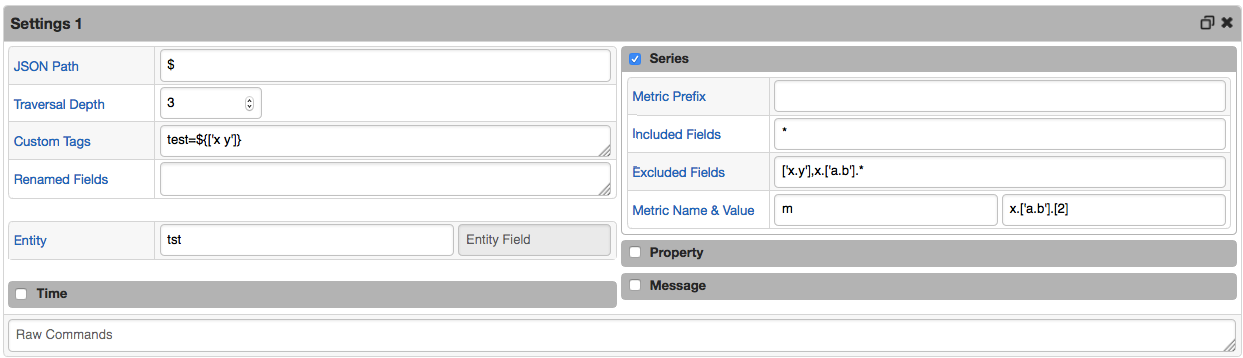
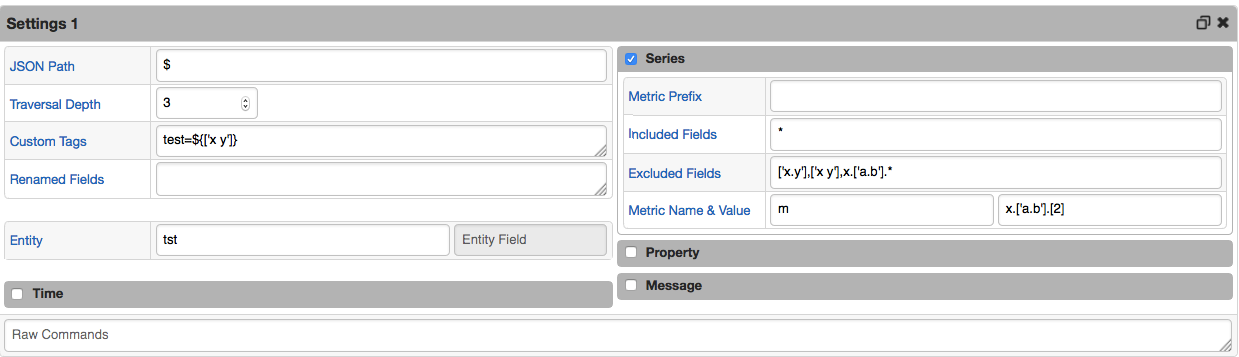
fix example

diff --git a/jobs/examples/json/fields-with-non-alphanumeric/README.md b/jobs/examples/json/fields-with-non-alphanumeric/README.md
@@ -68,7 +68,7 @@ JSON Path          | $
 Depth              | 3
 Custom Tags        | test=${['x y']}
 Included Fields    | *
-Excluded Fields    | ['x.y'],x.['a.b'].*
+Excluded Fields    | ['x.y'],['x y'],x.['a.b'].*
 Metric Name Field  | m
 Metric Value Field | x.['a.b'].[2]
 
